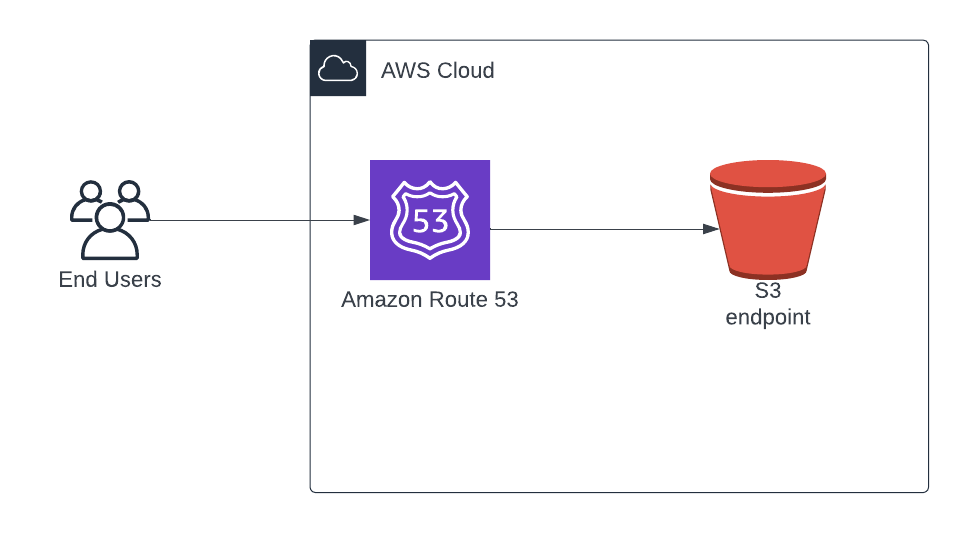
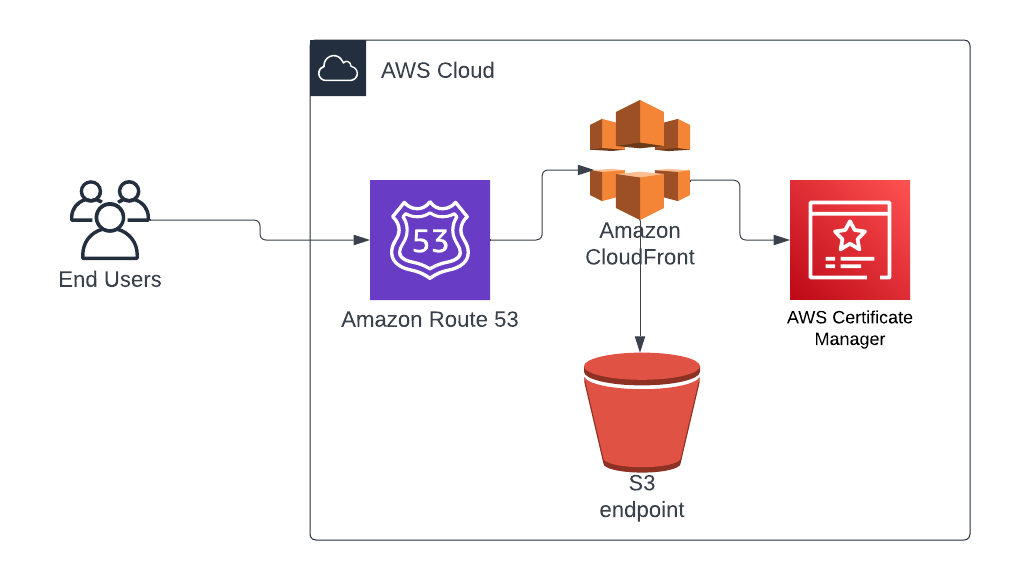
static website

diff --git a/Static Website/README.md b/Static Website/README.md
@@ -68,6 +68,16 @@ This project demonstrate how to deploy a static website to AWS using AWS S3 and 
         ![cloudfront](assets/img/cloudfront.png)
     2. Redirect form HTTP to HTTPS
         ![redirecthttp](assets/img/redirecthttp.png)
-    3. 
+    3. Enable secuirty protection
+        ![waf](assets/img/waf.png)
+    4. Add your apex and wildcard domain name. Then select your custom ssl certificate
+        ![sslselection](assets/img/sslselection.png)
+    5. Add your landing/home page(index.html).
+        ![rooturl](assets/img/rooturl.png)
+        Now we should have something.cloudfront.net serving our website. But thats not what we want to be calling to get to the website. So we need to change the DNS settings 
 
-10. 
+10. Create an A record to point to the cloudfront distribution. 
+    ![oldA](assets/img/oldA.png)
+    We are going to modify the previous record to point to out cloudfront distribution rather than our s3 endpoint url link
+    ![newA](assets/img/newA.png)
+    You can create another A record but this time with a www subdomain.
